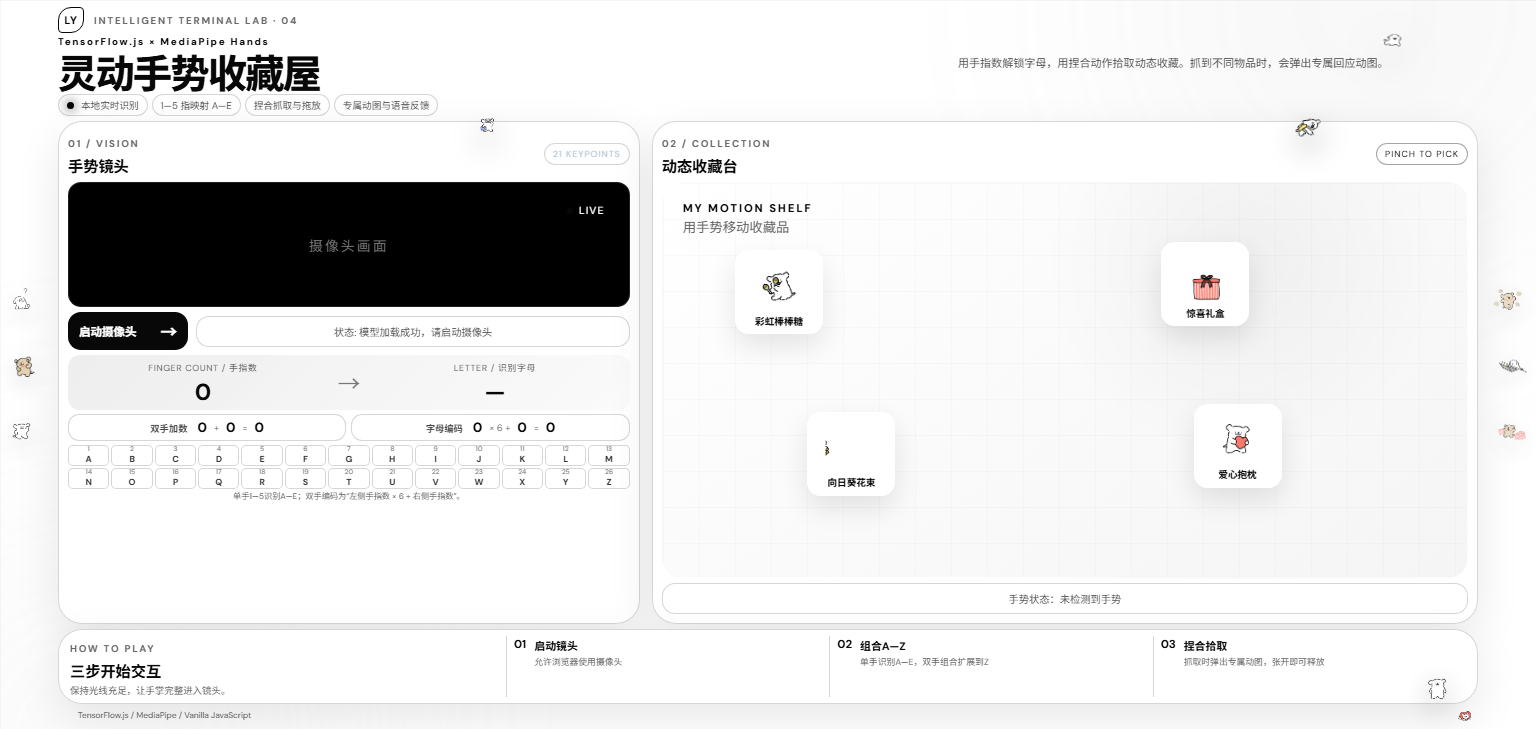
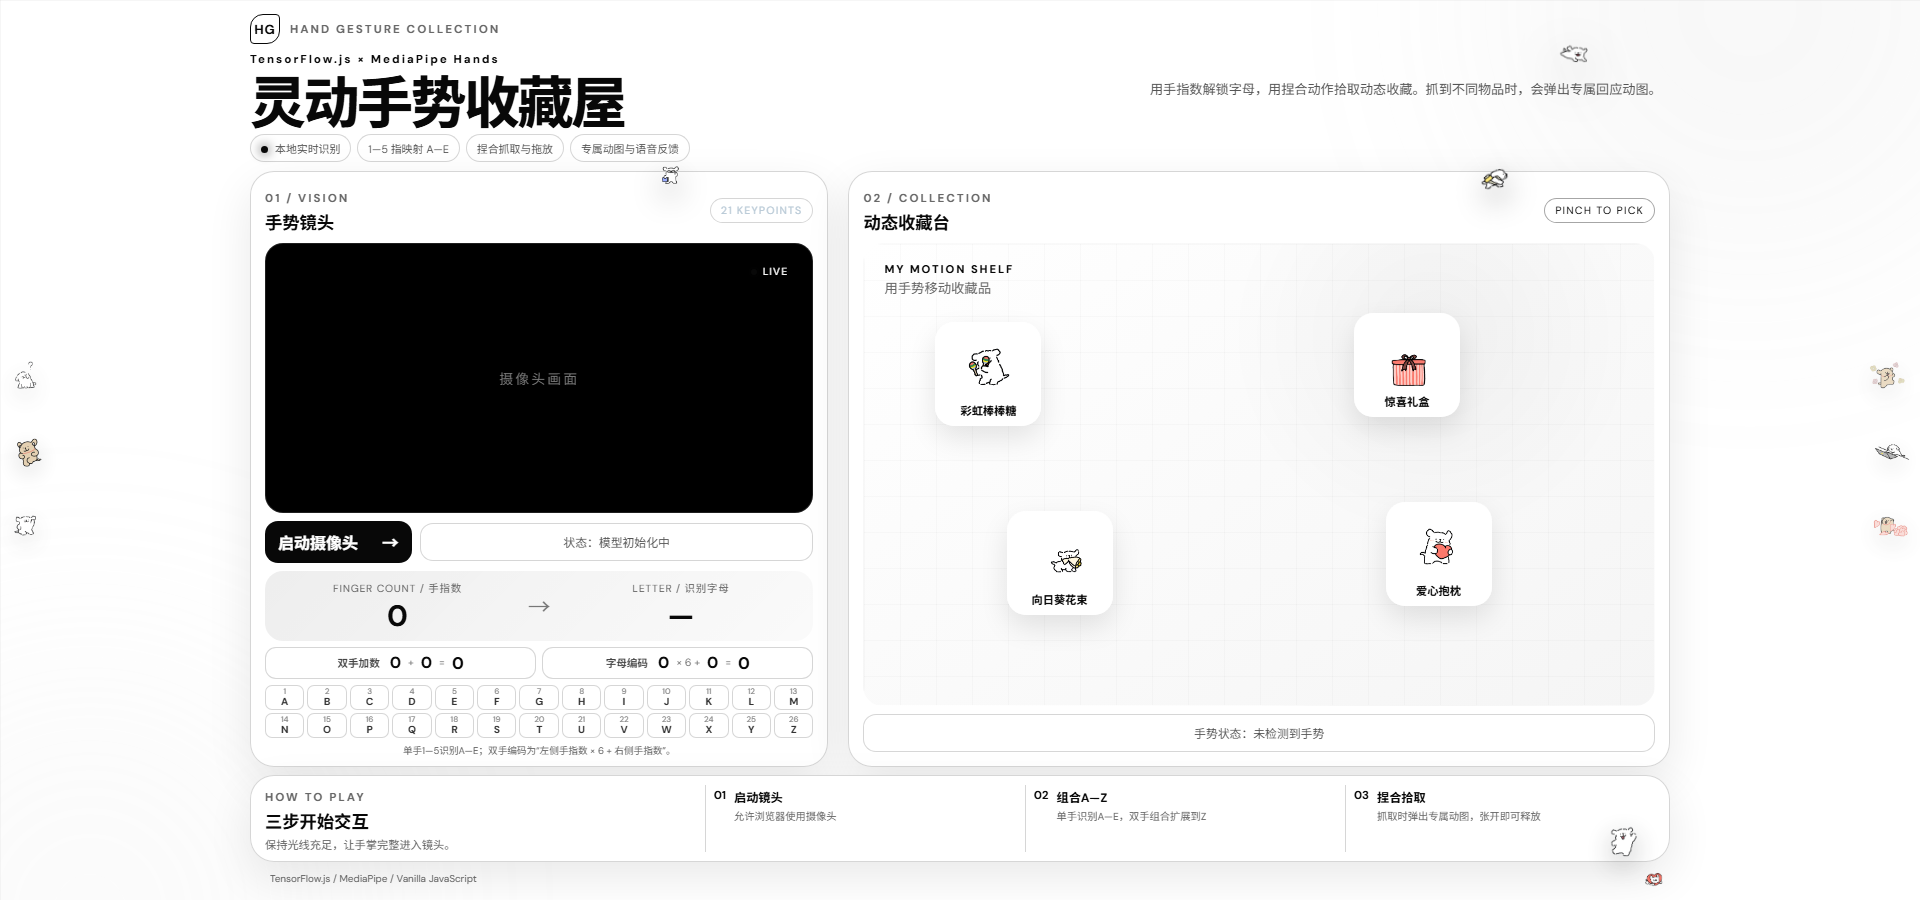
fix: enlarge camera preview

diff --git a/src/index.css b/src/index.css
@@ -143,7 +143,7 @@ h1 span { color: var(--yellow); }
 
 .video-container {
   position: relative;
-  height: clamp(150px, 22vh, 215px);
+  height: clamp(235px, 30vh, 290px);
   flex: 0 0 auto;
   overflow: hidden;
   border: 1px solid rgba(255,255,255,.12);
@@ -567,7 +567,7 @@ h1 span, .kicker, .stage-title span, .reaction-kicker { color: #080808; }
   .model-chip { padding: 4px 8px; font-size: .55rem; }
   .panel-sticker { top: -18px; width: 42px; height: 42px; }
 
-  .video-container { height: 125px; border-radius: 13px; }
+  .video-container { height: clamp(220px, 30vh, 245px); border-radius: 13px; }
   .camera-controls { margin-top: 5px; }
   .btn { padding: 7px 11px; font-size: .72rem; }
   .status { min-height: 31px; padding: 4px 8px; font-size: .64rem; }
